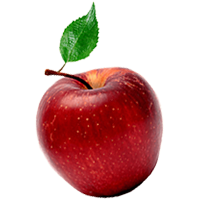
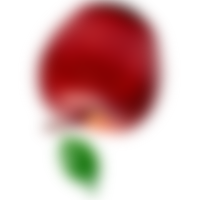
подготаливает код

diff --git a/2/index.html b/2/index.html
@@ -1,0 +1,73 @@
+<!DOCTYPE html>
+<html lang="en">
+
+<head>
+	<meta charset="UTF-8">
+	<meta http-equiv="X-UA-Compatible" content="IE=edge">
+	<meta name="viewport" content="width=device-width, initial-scale=1.0">
+	<title>Apple</title>
+
+</head>
+
+<body>
+
+	<div>
+		<style>
+			body {
+				margin: 0;
+				width: 100vw;
+				min-height: 100vh;
+			}
+
+			body>div {
+				display: flex;
+				flex-wrap: wrap;
+				width: 600px;
+				margin: 0 auto;
+			}
+
+			.block1 {
+				position: relative;
+				width: 200px;
+				height: 200px;
+				display: inline-block;
+			}
+
+			.block1::before {
+				content: '';
+				position: absolute;
+				width: 100%;
+				height: 100%;
+				background-image: url(./apple.png);
+				background-repeat: no-repeat;
+				background-position: center;
+				background-size: cover;
+			}
+
+			.block1-1::before {
+				transform: rotate(20deg) translate(-15px, -16px);
+				width: 222px;
+				height: 222px;
+			}
+
+			.block1-2::before {
+				transform: rotate(-20deg) translate(-6px, -24px) scale(-1, 1);
+				width: 222px;
+				height: 222px;
+			}
+
+			.block1-3::before {
+				transform: scale(1, -1) rotate(-20deg) translate(-3px, -2px);
+				filter: blur(7px);
+				width: 192px;
+				height: 192px;
+			}
+		</style>
+		<div class="block1 block1-1"></div>
+		<div class="block1 block1-2"></div>
+		<div class="block1 block1-3"></div>
+		<!-- <img src="./apple.png" alt="Red apple"> -->
+	</div>
+</body>
+
+</html>

diff --git a/1/index.html b/1/index.html
@@ -1,0 +1,56 @@
+<!DOCTYPE html>
+<html lang="en">
+
+<head>
+	<meta charset="UTF-8">
+	<meta http-equiv="X-UA-Compatible" content="IE=edge">
+	<meta name="viewport" content="width=device-width, initial-scale=1.0">
+	<title>Apple</title>
+
+</head>
+
+<body>
+
+	<div>
+		<style>
+			body {
+				margin: 0;
+				width: 100vw;
+				min-height: 100vh;
+			}
+
+			body>div {
+				display: flex;
+				flex-wrap: wrap;
+				width: 600px;
+				margin: 0 auto;
+			}
+
+			.block {
+				width: 200px;
+				height: 200px;
+				display: inline-block;
+				background-repeat: no-repeat;
+				background-position: center;
+				background-size: cover;
+			}
+
+			.block-1 {
+				background-image: url(./1.png);
+			}
+
+			.block-2 {
+				background-image: url(./2.png);
+			}
+
+			.block-3 {
+				background-image: url(./3.png);
+			}
+		</style>
+		<div class="block block-1"></div>
+		<div class="block block-2"></div>
+		<div class="block block-3"></div>
+	</div>
+</body>
+
+</html>
